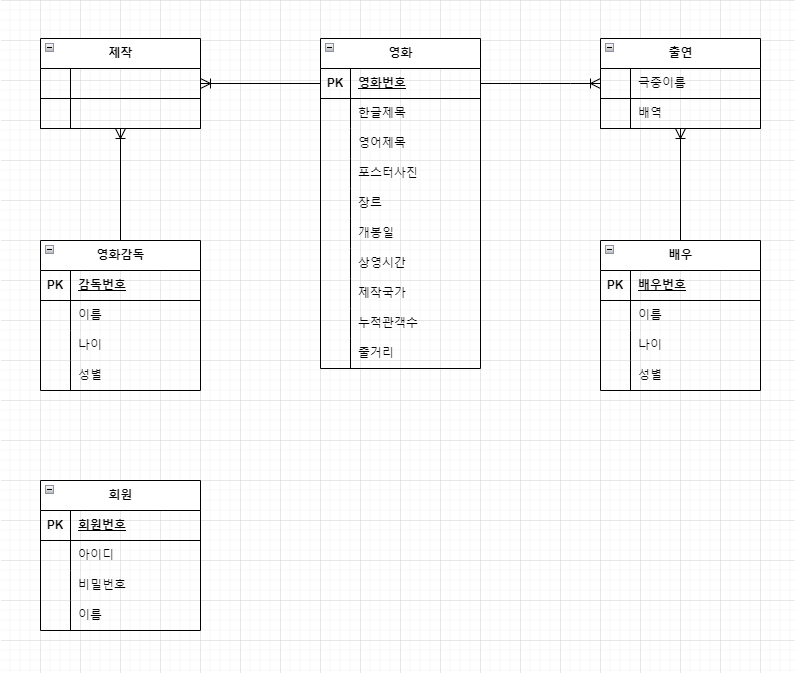
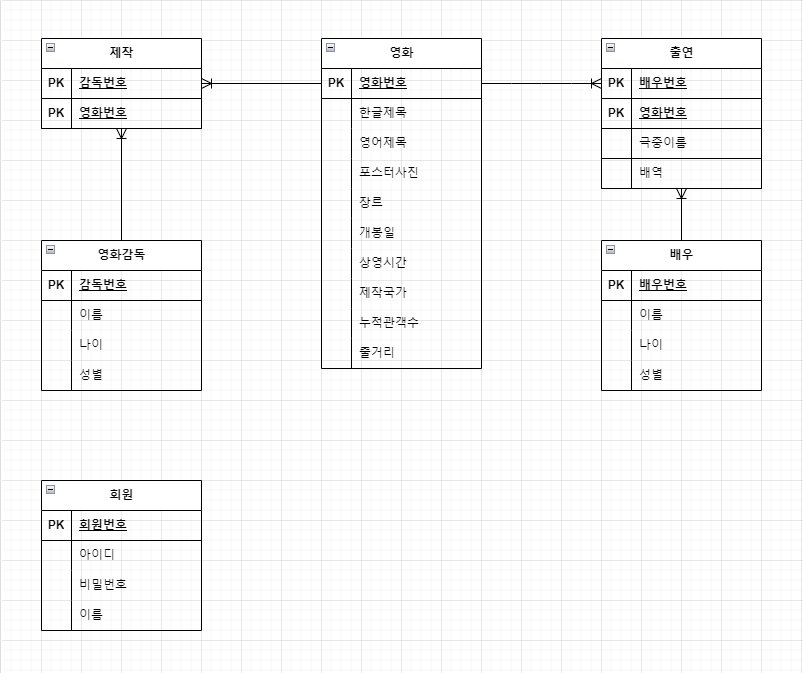
update

diff --git a/_posts/2024-02-04-movie-01.md b/_posts/2024-02-04-movie-01.md
@@ -117,6 +117,12 @@ ER 다이어그램을 작성해보겠습니다.
 
 ### 논리적 데이터 모델링
 
-ER 다이어그램을 릴레이션 스키마로 변환합니다.
+ER 다이어그램을 기반으로 테이블 명세서를 작성하기전 정규화 과정을 진행해보겠습니다.
 
-> 보통 5가지 과정을 거쳐서 변환합니다. (생략)
+- **1NF**
+
+  테이블의 모든 속성 값이 도메인 원자값만으로 되어 있는 상태로 정규화합니다.
+
+  영화 테이블의 장르 속성에는 여러 값이 주어질 수 있지만 문자열로 한번에 처리할 예정이므로 분리하지 않고 진행하겠습니다.
+
+---
